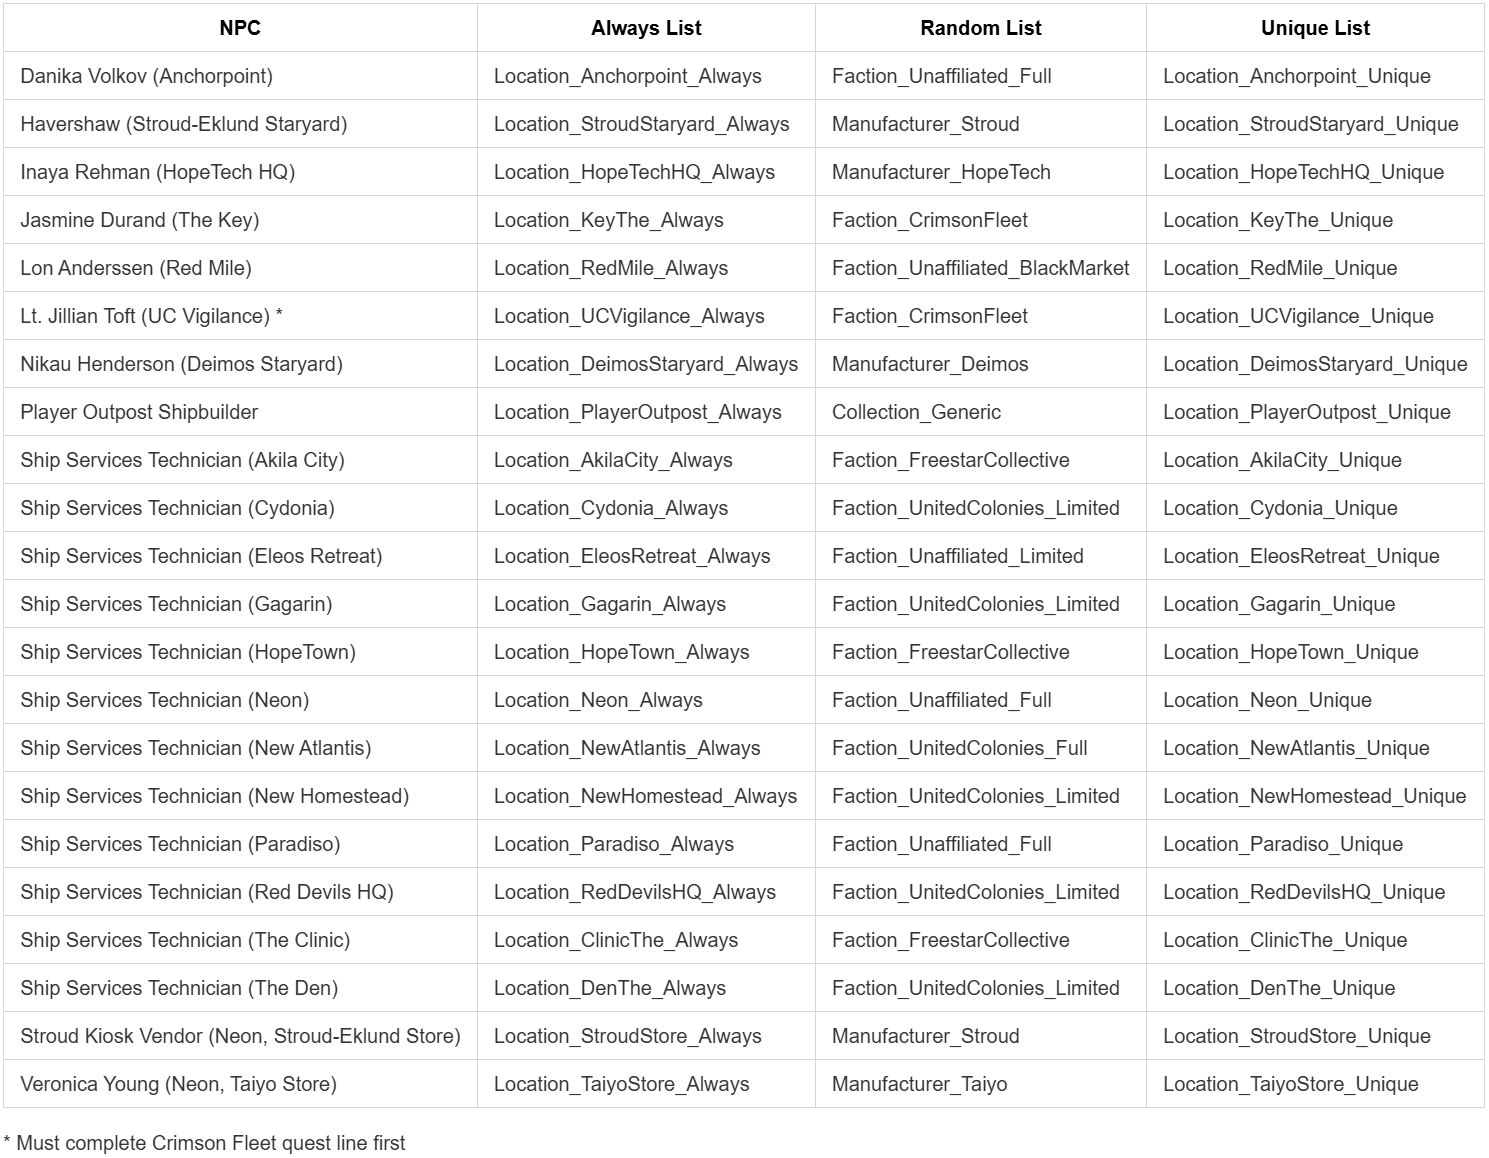
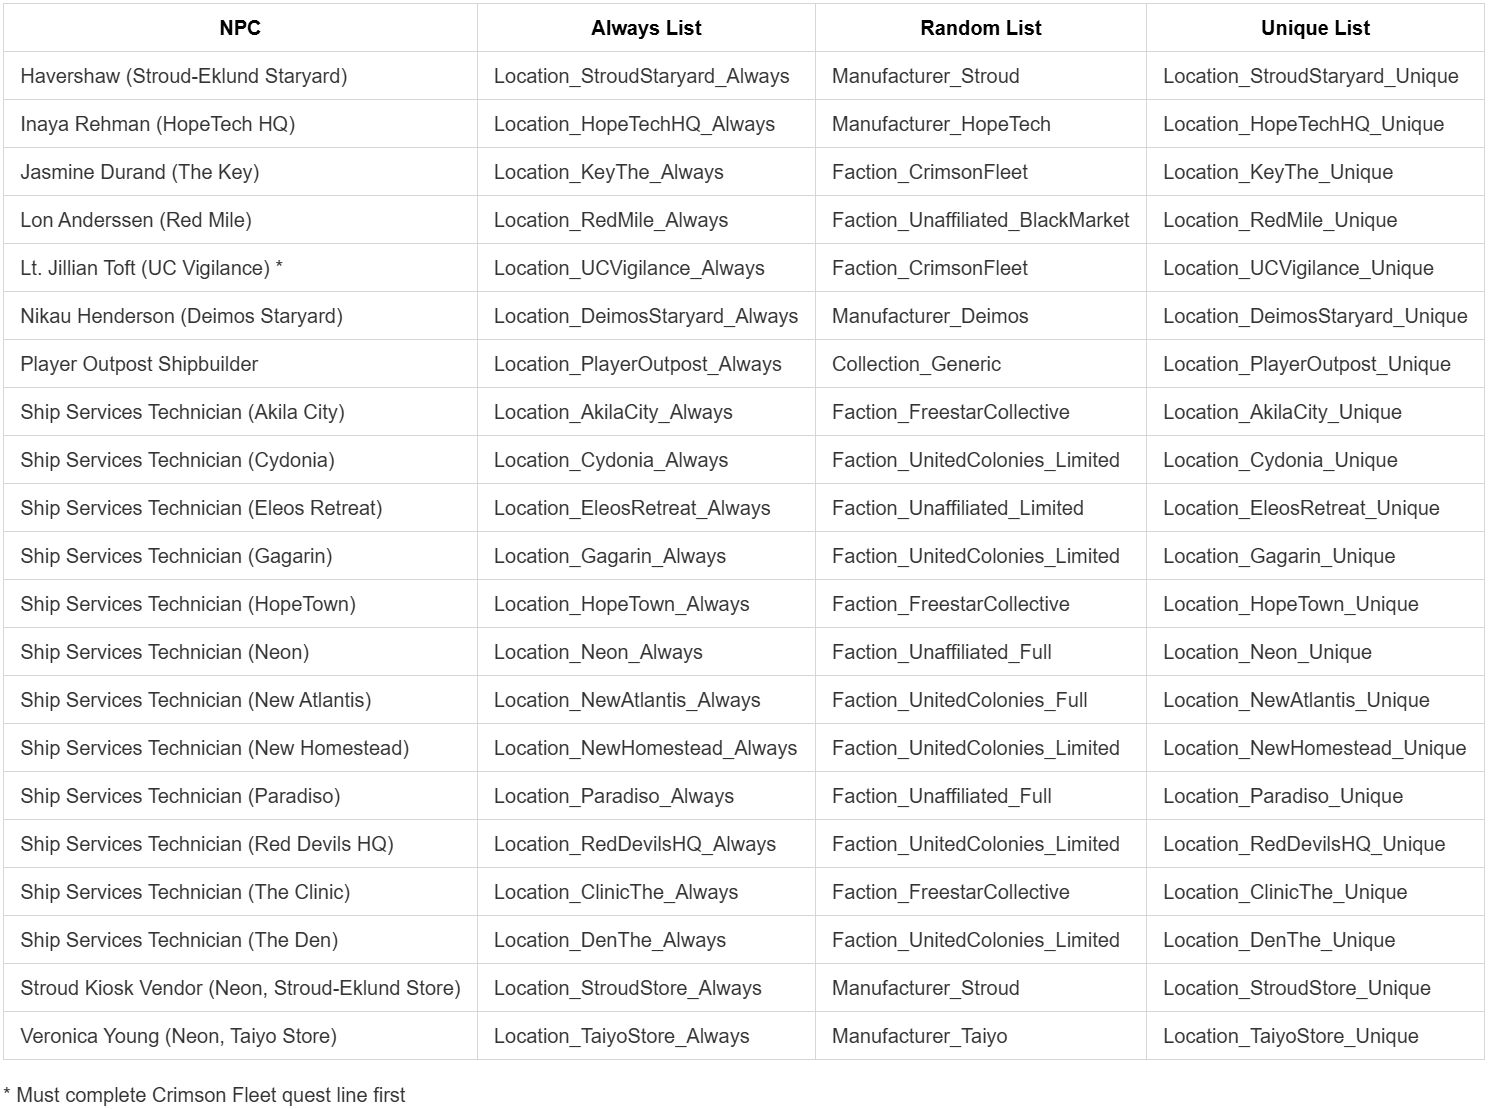
add free lanes ShipVendorList image also update vanilla ShipVendorList image

diff --git a/support/docs/HOWTO.md b/support/docs/HOWTO.md
@@ -336,6 +336,9 @@ NPC Ship Lists
 Vanilla:
 ![NPC Ship List Table (Vanilla)](/support/packaging/svf-npc-form-list.jpg)
 
+Free Lanes (with patch):
+![NPC Ship List Table (Free Lanes Patch)](/support/packaging/svf-npc-form-list-FreeLanes.jpg)
+
 Shattered Space (with patch):
 ![NPC Ship List Table (Shattered Space Patch)](/support/packaging/svf-npc-form-list-ShatteredSpace.jpg)
 

diff --git a/support/docs/README.md b/support/docs/README.md
@@ -127,6 +127,9 @@ NPC Ship Lists
 Vanilla:
 ![NPC Ship List Table (Vanilla)](/support/packaging/svf-npc-form-list.jpg)
 
+Free Lanes (with patch):
+![NPC Ship List Table (Free Lanes Patch)](/support/packaging/svf-npc-form-list-FreeLanes.jpg)
+
 Shattered Space (with patch):
 ![NPC Ship List Table (Shattered Space Patch)](/support/packaging/svf-npc-form-list-ShatteredSpace.jpg)
 
